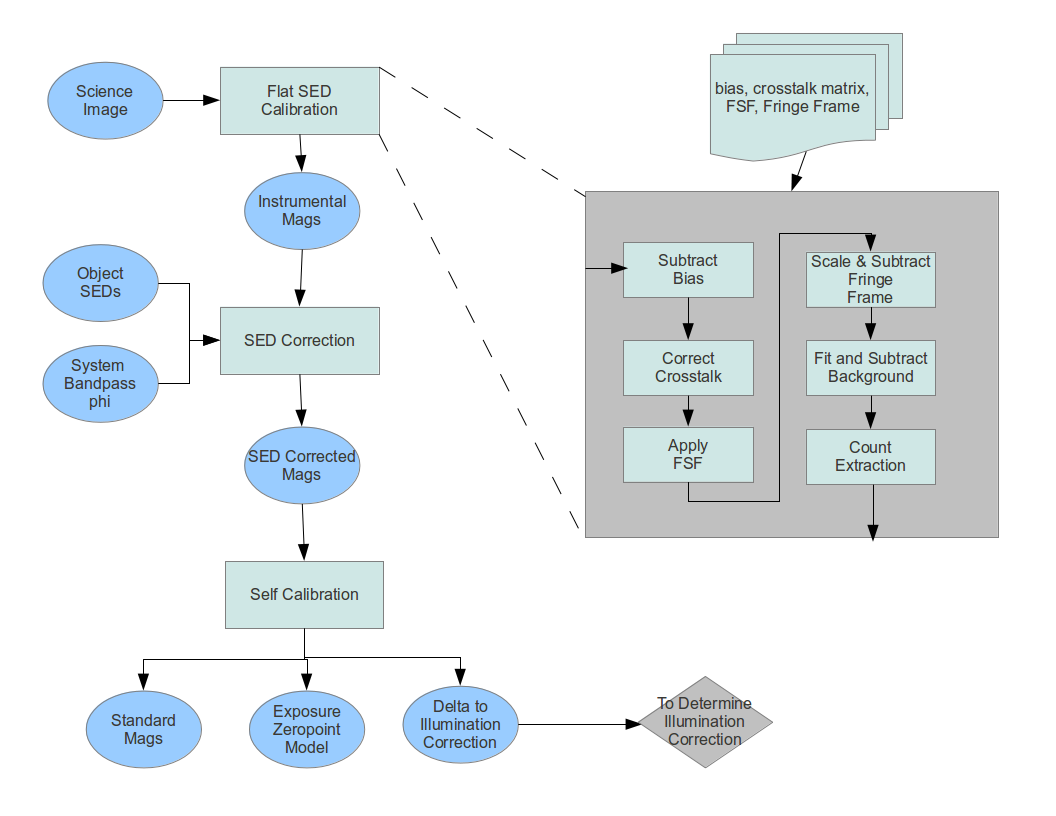
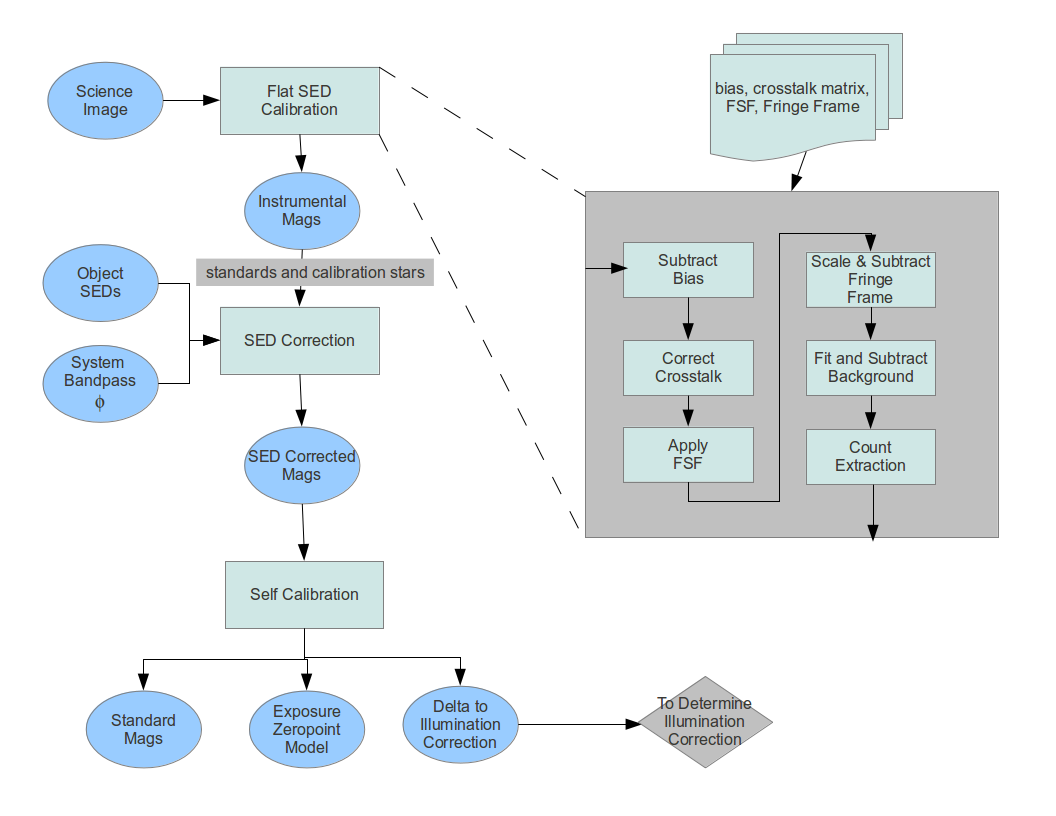
Modified flow chart figs Still cleaning up Sec 3

Changed region(s): [[0.1875, 0.3064, 0.4375, 0.3676], [0.0625, 0.4289, 0.125, 0.4902]]

diff --git a/level2/calib_plan.tex b/level2/calib_plan.tex
@@ -240,8 +240,8 @@ verifying the final two requirements, \ref{color_req} and
 
 In traditional photometric calibration, a set of standard stars are
 observed at a range of airmasses to calculate zeropoint offsets and
-(typically) a single color-dependent extinction term per night. This is
-sufficient for photometry at the few percent level on photometric
+(typically) a single color-dependent extinction curve per night. This is
+sufficient for photometry at the few percent level on stable photometric
 nights. However, historical weather data from Cerro Pach\'{o}n tells us
 only 53\% of the available observing time can be considered
 photometric even at the 1--2\% level. To take advantage of the full
@@ -251,7 +251,7 @@ requirements -- 0.5\% level photometric repeatability and 1\%
 photometric uniformity -- requires a new approach.
 {\bf TODO include comment that we're not taking 'time out' to do photometric standards with wide range of colors, and thus not guaranteed leverage from survey itself}
 
-This new approach lies in splitting the measurement of the {\it
+This new approach, variants of which have been used at PanSTARRS and XXX, lies in splitting the measurement of the {\it
 normalization} of the throughput in each observation (the gray-scale
 zeropoint) from the {\it shape} of the throughput curve (the color
 dependent terms), and further, using separate procedures to measure
@@ -260,17 +260,19 @@ the atmospheric throughput. This calibration system requires various
 pieces of hardware to conduct these optimized measurements. We briefly
 describe them here, with full descriptions in the sections indicated:
 \begin{itemize}
-\item{A dome screen projector designed to provide very uniform
-    ($\sim1\%$ variation) illumination across the field of view, while
-    not creating stray light. This projector system will have the unique
+\item{A dome screen projector designed to provide uniform
+    ($\sim10\%$ variation) illumination across the field of view, while
+    minimizing stray light. This projector system will have the
     capability to not only illuminate the screen with broadband white
     light, but also narrow-band light to measure the system response
     at individual wavelengths. The narrow-band light will be generated
     by a tunable laser, capable of producing light from $300-1100$~nm
-    and tunable in 1~nm increments. See
+    and tunable in 1~nm increments. The brightness of the screen is measured 
+    with NIST-calibrated photodiodes, so that the relative intensity at different 
+    wavelengths is precisely determined.  See
     Sections~\ref{sec:hardware_norm} and \ref{sec:hardware_phi} for
     more information.}
-\item{A 1.2-m auxiliary telescope with an $R=400$ spectrograph,
+\item{A 1.2-m auxiliary telescope with an $R \approx 400$ spectrograph,
     located adjacent to the LSST itself. This auxiliary telescope will
     obtain spectra of a chosen set of standard stars across the sky to
     constrain atmospheric absorption models. More details are provided
@@ -278,33 +280,19 @@ describe them here, with full descriptions in the sections indicated:
 \item{Water vapor monitoring system, consisting of a GPS system and a 
     microwave radiometer attached to the LSST telescope, and monitoring 
     the same field of view.}  
-\item{The self-calibration solver is not actually hardware, but rather
-    software which will be used to calibrate the gray atmospheric
-    absorption due to clouds. This software uses the many observations
-    of each star under a wide variety of conditions to calculate the
-    zeropoint of each image. Section~\ref{sec:atmo_norm} describes
-    this in full.}
 \end{itemize}
 
-A flowchart showing an overview of the steps from science observation
+An overview of the entire calibration process, from science observation
 to calibrated photometric measurements, together with the required
 calibration data products is shown in
-Figure~\ref{fig:overview_flowchart}.  The {\it normalization} of the
-throughput will be corrected by using a flat field (for small spatial
-scale variations, $<<$CCD scale) and the self-calibration procedure
-(for larger spatial scale variations, generally $\approx$CCD, as this
-is fundamentally limited by the spacing between calibration stars in
-each visit). The flat field can only correct for variations in the
-throughput of the hardware; the self-calibration procedure will
-primarily correct for variations in throughput due to variable
-atmospheric conditions (such as cloud extinction) in each image,
-although it can be extended to apply additional corrections for large
-spatial scale errors (illumination corrections) in the flat field. The
-{\it shape} of the throughput curve will be measured using both the
-narrow-band dome screen projector, to correct for variations in the
-shape of the hardware bandpass response across the field of view, and
-the auxiliary telescope, to correct for variations in the atmospheric
-absorption curve from visit to visit.
+Figures \ref{fig:overview_flowchart1}, \ref{fig:overview_flowchart2}, 
+\ref{fig:overview_flowchart3}, and \ref{fig:overview_flowchart4}.  
+Note that three classes of objects participate in the calibration process in different ways:
+\begin{itemize}
+\item Standard stars.  These are stars whose absolute flux as a function of wavelength above the atmosphere is precisely known.  This class contains only a few members, perhaps as few as ten.  Their role is to enable the self calibration process to set absolute zeropoints for each band, and to allow testing of the SRD uniformity requirements.  See Section~\ref{sec:calib_external}.
+\item Calibration stars.  These are stars that densely cover the sky, with typical spacings between stars of 1 arcminute. [NOTE: check this number].  Unlike standard stars, their absolute fluxes are not precisely known, and their standard magnitudes are determined by the self calibration process.   They have been selected to be on the stellar main sequence, to be nonvariable, and to be relatively isolated so that their photometry is not degraded by crowding effects.
+\item Science objects.  Calibration of science objects utilizes the results of processing the standards and the calibration stars, and the measurement of the system bandpass.   If an SED is supplied for an object, an accurate standard magnitude can then be calculated.
+\end{itemize}
 
 \begin{figure}[htbp]
 \includegraphics[width=6.5in]{CalibDataProdSchematic1}
@@ -315,46 +303,48 @@ absorption curve from visit to visit.
 
 \begin{figure}[htbp]
 \includegraphics[width=6.5in]{CalibDataProdSchematic2}
-\caption{ {\small {\bf Flat Spectrum Flat Determination.} Determination of the flat spectrum flat (FSF) is of central importance.  The initial step in the calibration process treats all objects as if their SED were flat.  This is consistent only if the flatfield is that for a flat SED as well.  Since the illumination source for the actual broadband flat does not have a flat SED, correction is required.  Additionally, the flat as measured is contaminated by light which arrives from paths other than the direct path, such as ghosting.  These effects must be taken out by the illumination correction. }
+\caption{ {\small {\bf Flat SED Flat Determination.} Determination of the flat SED flat (FSF) is of central importance.  The initial step in the calibration process treats all objects as if their SED were flat.  This is consistent only if the flatfield is that for a flat SED, as transmitted through a reference atmosphere.  Since the illumination source for the actual broadband flat does not have the required SED, we cannot use it directly.  Instead, we synthesize the required flat from the monochromatic flats.  These flats as measured are contaminated by light which arrives from paths other than the direct path, such as ghosting.  These effects are taken out by the illumination correction.  Finally, the monochromatic flats are taken relatively infrequently, and will not reflect changes on shorter timescales, such as the appearance of new dust particles.  We account for this by multiplying the synthesized FSF by the ratio of two broadband flats, one at the current epoch and one at the reference epoch, when the monochromatic flats were gathered.}
 \label{fig:overview_flowchart2} }
 \end{figure}
 
 \begin{figure}[htbp]
 \includegraphics[width=6.5in]{CalibDataProdSchematic3}
-\caption{ {\small {\bf System Bandpass Determination.} Blah, blah. }
+\caption{ {\small {\bf System Bandpass Determination.} The system bandpass, $\phi$, is determined for every exposure, and is a major output of the calibration process.  It is the normalized product of the atmospheric bandpass and that of the telescope/camera system.  The atmospheric bandpass is determined by fitting an atmospheric model to a set of measured atmospheric data.  The bandpass of the telescope/camera system is measured by the corrected monochromatic flats, modified by current data from the camera system, principally focalplane temperature and the filter position. }
 \label{fig:overview_flowchart3} }
 \end{figure}
 
 \begin{figure}[htbp]
 \includegraphics[width=6.5in]{CalibDataProdSchematic4}
-\caption{ {\small {\bf Science Object Calibration.} Blah, blah. }
+\caption{ {\small {\bf Science Object Calibration.}  Photometric calibration for science objects takes place in two stages.  In the first, the natural magnitudes are calculated, using the zeropoint model for each exposure.  These are stored in the Level 2 databases.  The second, optional, stage, relies on knowledge of the object SEDs, which is an external input to the system, supplied by the user.   The object SED, in conjunction with the system bandpass, $\phi$, allows standard magnitudes to be calculated.  These are considered a Level 3 data product }
 \label{fig:overview_flowchart4} }
 \end{figure}
 
 The rest of this section will provide a more in-depth overview of the
-calibration measurements required. We will start with a review of what
+calibration process. We will start with a review of what
 is physically happening to photons in their path toward the focal
 plane (the `truth'), and then outline how LSST will translate the
-measured ADU counts back to photons above the atmosphere (the
+measured ADU counts back to fluxes above the atmosphere (the
 calibration `model').
 %\vspace[*]{0.5in}
-\begin{boxedminipage}{\textwidth}
+
+
+\begin{boxedminipage}{7in}
 We find it helpful to define four different magnitudes, and their associated fluxes:
 \begin{itemize}
 \item{$m_b^{inst}$, the instrumental magnitude.  $m_b^{inst} = -2.5 log10(C_b^{obs})$, where $C_b^{obs}$ are the instrumental counts (ADU) that are attributed to the object}
 \item{$m_b^{nat}$, the natural magnitude.  This is the magnitude in the AB system that would be measured for the object if it were measured through the actual normalized system bandpass, $\phi_b^{obs}(\lambda)$, at the top of the atmosphere.  See equations \ref{eqn:Fb} and \ref{eqn:natmag}. $m_b^{nat} = m_b^{inst} + Z_b^{obs}$}
-\item{$m_b^{std}$}, the standard magnitude.  This is the magnitude in the AB system that would be measured for the object if it were measured through the standard normalized system bandpass, $\phi_b^{std}(\lambda)$, at the top of the atmosphere.  See equation \ref{eqn:stdFlux}.} 
+\item{$m_b^{std}$}, the standard magnitude.  This is the magnitude in the AB system that would be measured for the object if it were measured through the standard normalized system bandpass, $\phi_b^{std}(\lambda)$, at the top of the atmosphere.  See equation \ref{eqn:stdFlux}. 
 \item{$m_b^{corr}$, the SED corrected instrumental magnitude.  This is the standard magnitude, but with an unknown gray zeropoint correction, which will be removed by self calibration.  These magnitudes are the input to self calibration. $m_b^{corr} = m_b^{inst} + \Delta m_b^{obs}$}
 \end{itemize}
 These quantities are related through equations \ref{eqn:mag2counts} and \ref{eqn:mag2counts}.
 \end{boxedminipage}
-\subsection{Truth: From photons to counts}
+
+\subsection{From Photons to Counts}
 
 Let us first consider how the photons from an astronomical object are
 converted into ADUs in the detector, paying attention to the various
 temporal or spatial scales for variability might arise in the LSST
-system to affect the final ADU counts (and ignoring errors in
-measurement, as this is the `truth' of the flux transmission). This section is intended
+system to affect the final ADU counts. This section is intended
 to motivate the separate measurement of the normalization and shape of
 the bandpass and introduce some important concepts, such as the
 normalized system response.
@@ -534,7 +524,14 @@ m_b^{std} = -2.5\,log_{10}(C_b^{obs}) \, - \Delta m_b^{obs} + Z_b^{obs}
 the zeropoint correction here, $Z_b^{obs}$, contains only gray-scale
 {\it normalization} effects, such as variations due to the flat field
 or cloud extinction. 
-
+\subsubsection{Perturbations to the System Bandpass}
+The normalized system bandpass will vary from exposure to exposure due to a myriad of effects.  A non-exhaustive list includes:
+\begin{itemize}
+\item{Atmospheric transmission variations.  The major wavelength-dependent sources of atmospheric absorption, Rayleigh scattering from molecules, ozone, water vapor, and aerosols, all vary in time and space, with widely varying temporal and spatial scales.  Even in the absence of intrinsic variation in the atmosphere, of course, the bandpass varies due to changing airmass.  This latter effect is compensated for in traditional photometric calibration, but the others are generally ignored.
+\item{Long term variations in the throughput of the optical path due to contamination}
+\item{Changing detector quantum efficiency, particularly in the y-band, due to varying focal plane temperature}
+\item{Shifts in filter position with respect to the system optical axis, due to positioning jitter and gravity sag}
+\end{itemize}
 Examples of the $\Delta m_b^{obs}$ due to variations in the shape of
 the hardware and atmospheric response curves are shown in
 Figure~\ref{fig:delta_mags} and Table~\ref{tab:delta_mags}. Two main
@@ -641,7 +638,7 @@ the $g-i$ information). }
 \end{figure}
 
 
-\subsection{Model: How to calibrate counts}
+\subsection{From Counts to Photons}
 \label{sec:counts2photons}
 
 The previous section laid out the origins of ADU count variability
